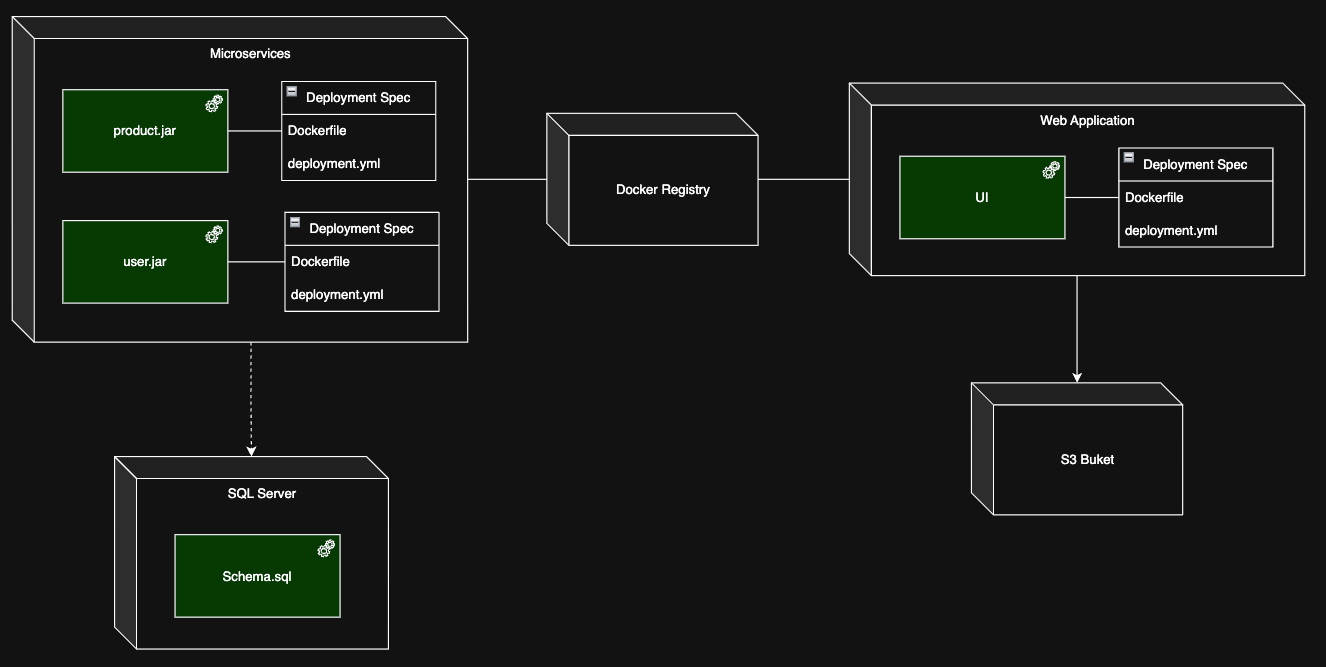
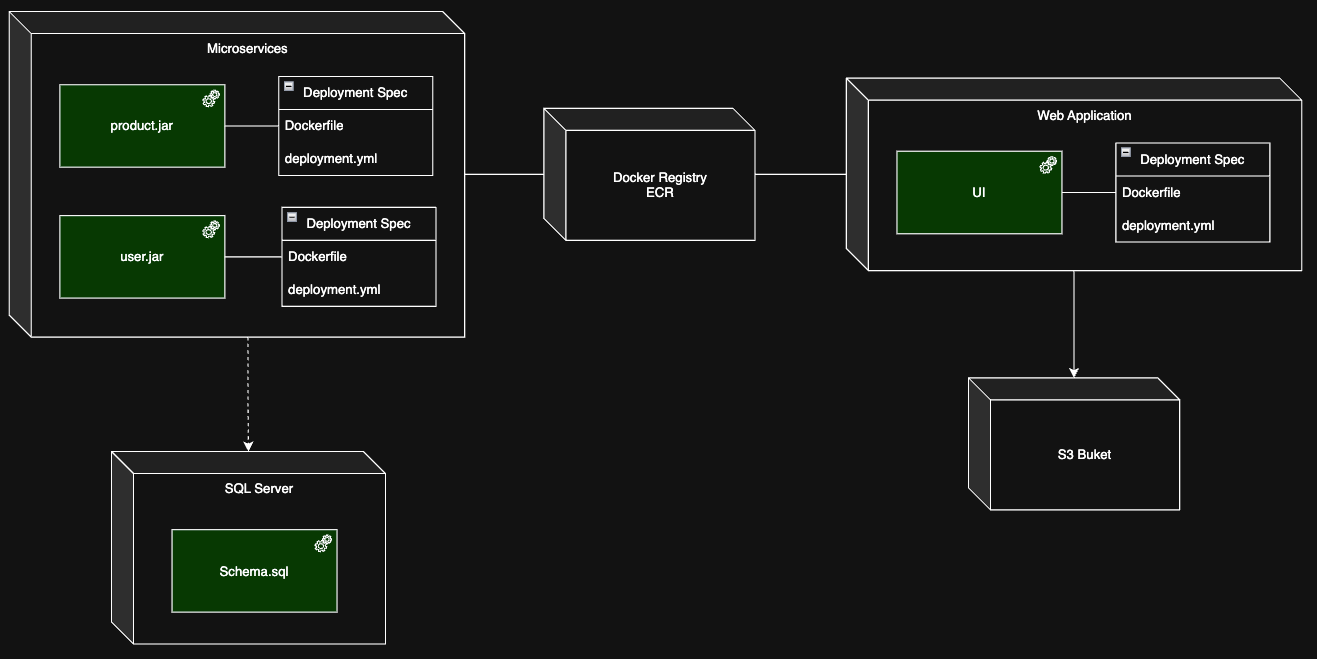
adding architecture challenge

diff --git a/architecture/latency-afficionados/architecture.md b/architecture/latency-afficionados/architecture.md
@@ -137,14 +137,19 @@ The user is capable of providing recommendation of products to users based on pr
 ## 🧭 6. Trade-offs
 
 ### Major Decisions
-1. Use LLM for code generation in latest Java version in order to modernize the monolith.
+1. Use Copilot Agent for code generation in latest Java version in order to modernize the monolith.
 2. Use Svelte for frontend to improve UI performance and reduce latency.
 3. Use WebSockets for real-time updates and faster communication.
-4. CloudFront Functions for scenarios requiring ultra-low latency and simple JavaScript logic at the edge.
+   * Price drop alerts for wish listed games
+   * Order status updates ("Seller has shipped your game")
+   * Instantly update when rare retro games become available or sell out
+   * Show "X people are viewing this item" counters in real-time
+   * Display "Just sold!" notifications without page refresh
+4. CloudFront for serving the static files.
 5. Global Accelerator It is commonly used for web applications, APIs, gaming platforms, and any latency-sensitive or highly available global service.
 6. OpenSearch It would significantly improve the search experience in the marketplace while maintaining the performance standards.
 7. Aurora Postgres works best as the primary transactional database.
-8. The application uses Outbox Pattern to synchronize data from Aurora PostgreSQL to OpenSearch.
+8. PGsync to synchronize data from Aurora PostgreSQL to OpenSearch.
 
 ### Tradeoffs
 
@@ -153,45 +158,30 @@ The user is capable of providing recommendation of products to users based on pr
     * Benefits from community support and contributions.
   * 🚫 CONS:
     * Supporting and maintaining in house.
+
 2. Svelte vs React
   * ✅ PROS:
     * Svelte compiles to vanilla JavaScript, resulting in smaller bundle sizes and faster execution.
     * No virtual DOM, leading to lower memory usage and CPU consumption.
   * 🚫 CONS:
     * Svelte has a smaller ecosystem compared to React, which may limit available libraries and tools.
+
 3. WebSockets vs HTTP
   * ✅ PROS:
     * WebSockets provide lower latency and faster communication due to persistent connections.
     * Full-duplex communication allows for real-time updates.
   * 🚫 CONS:
     * Requires additional setup and management compared to traditional HTTP requests.
-4. CloudFront Functions vs Lambda@Edge
-  * ✅ PROS CloudFront Functions:
-    * Performance: Ultra-low latency (~1ms execution time)
-    * Deployment: Extremely simple with single-step process
-    * Cost: Significantly cheaper than Lambda@Edge (~1/6th the cost)
-    * Propagation: Changes take effect within seconds
-    * Management: No version management complexity
-  * 🚫 CONS CloudFront Functions:
-    * Runtime: JavaScript only, max 2ms execution time
-    * Functionality: Cannot access request bodies or make external API calls
-    * Resources: Limited to 2MB memory
-    * Triggers: Limited to viewer request and response events only
-  * ✅ PROS Lambda@Edge:
-    * Power: Up to 128MB memory and 5 seconds runtime
-    * Capabilities: Can access full request/response bodies and make external API calls
-    * Language: Supports Node.js and Python runtimes
-    * Integration: Can interact with other AWS services
-    * Flexibility: Supports complex business logic implementation
-    * Triggers: Works with all four CloudFront trigger points
-  * 🚫 CONS Lambda@Edge:
-    * Cold Starts: Slower initial execution (10-100ms)
-    * Cost: 6x more expensive than CloudFront Functions
-    * Deployment: Complex multi-step process requiring version publishing
-    * Propagation: Changes can take minutes to hours to deploy globally
-    * Region Restriction: Must be deployed in us-east-1
-    * Management: Requires version management and IAM role setup
-6. Non AWS alternative Cloudflare Workers
+  * Benchmark comparison
+    
+    | Requests | Websocket total duration | HTTP total duration | Winner                |
+    |----------|--------------------------|---------------------|-----------------------|
+    | 1K       | 110 ms                   | 204 ms              | Websocket ~92% faster |
+    | 10K      | 12123 ms                 | 19757 ms            | Websocket ~93% faster |
+    | 100K     | 120914 ms                | 219011 ms           | Websocket ~94% faster |
+    Source: https://github.com/codegik/websocket-benchmark
+
+4. Non AWS alternative Cloudflare Workers
    * ✅ PROS Cloudflare Workers:
      * Extremely fast cold starts (<1ms)
      * Supports both JavaScript and WebAssembly
@@ -203,7 +193,7 @@ The user is capable of providing recommendation of products to users based on pr
      * No native Java/Kotlin support
      * Requires separate infrastructure if using AWS for other services
      * Requires Cloudflare-specific APIs
-7. Global Accelerator
+5. Global Accelerator
    * ✅ PROS:
      * Improves global application performance by routing users to the nearest healthy AWS endpoint.
      * Increases availability with automatic failover and health checks.
@@ -239,10 +229,9 @@ The user is capable of providing recommendation of products to users based on pr
 [//]: # (Performance Benefits: Sub-10ms query performance even with complex filtering.)
 
 # TODO
-Docker registry - ECR
-Define LLM
-Uses cases for websocket
-Benchmark for websocket
-https://medium.com/design-microservices-architecture-with-patterns/outbox-pattern-for-microservices-architectures-1b8648dfaa27
-PGsync option
-Use case cloud front function
+~~Docker registry - ECR~~
+~~Define LLM~~
+~~Uses cases for websocket~~
+~~Benchmark for websocket~~
+~~PGsync option~~
+~~Use case cloud front function~~
